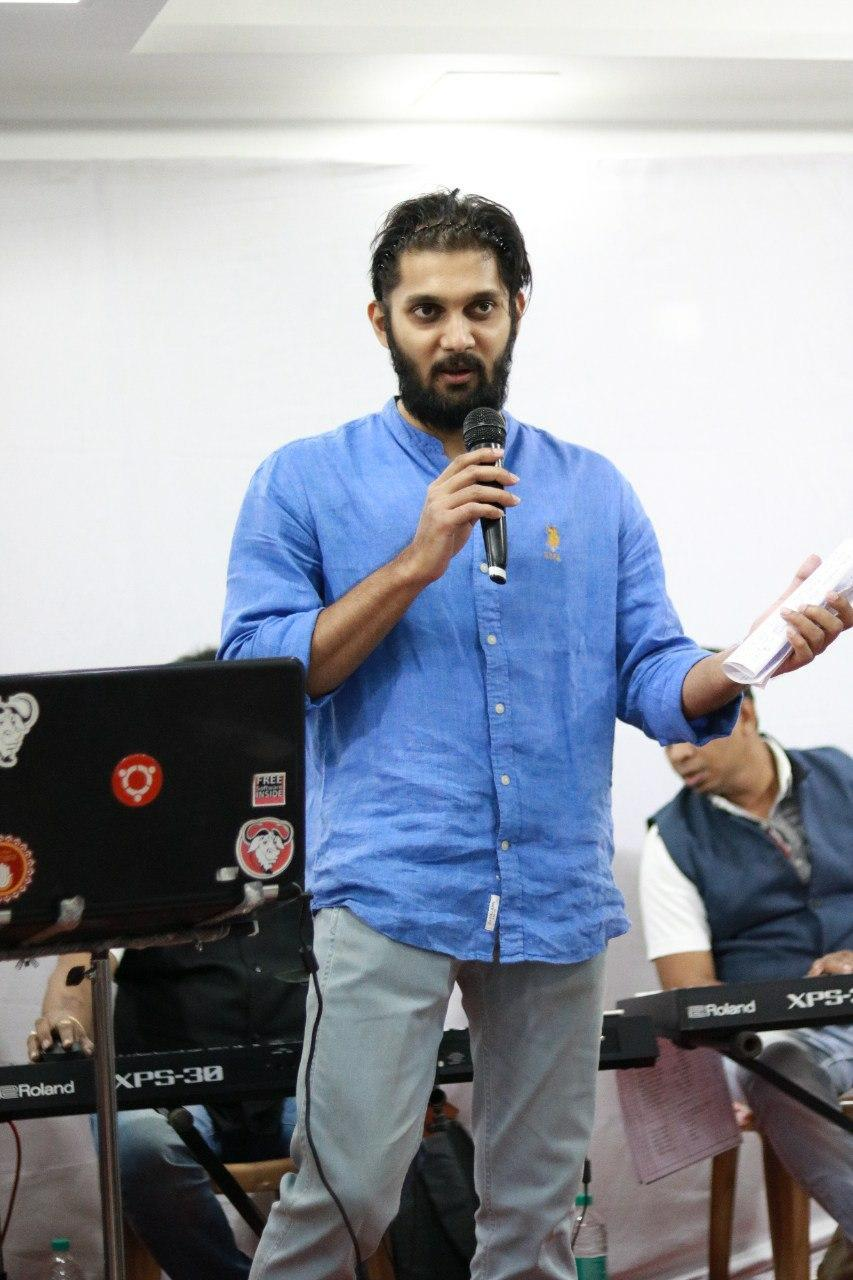
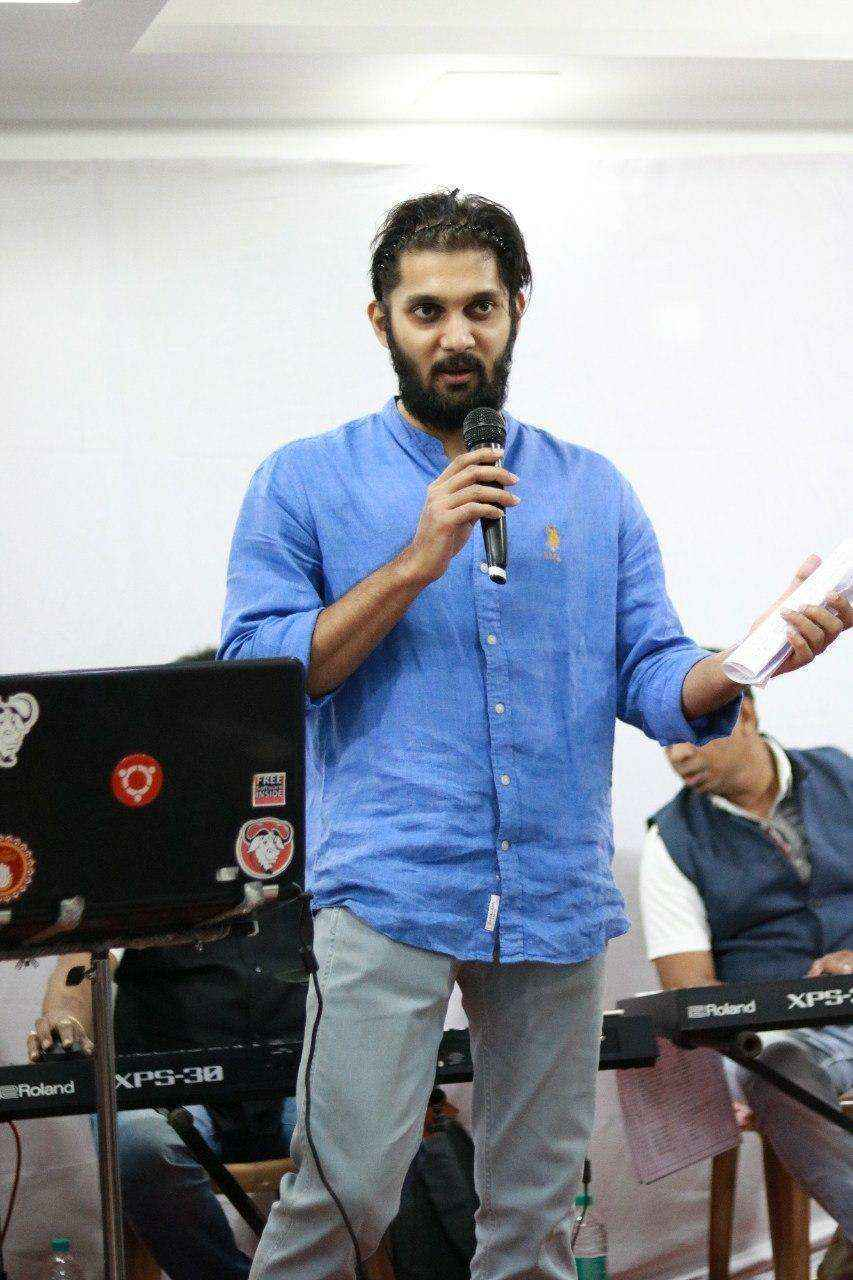
NAVIN IMAGE CHANGE TO JPG

diff --git a/src/pages/Index.vue b/src/pages/Index.vue
@@ -88,7 +88,7 @@
 
         <div class="flex justify-center flex-wrap">
             <div class="w-48 m-4 mx-auto py-2 bg-blue shadow-lg">
-                <img class="mx-auto rounded-full" src="../assets/navin.png" alt="Navin Karkera, Python Programmer" />
+                <img class="mx-auto rounded-full" src="../assets/navin.jpg" alt="Navin Karkera, Python Programmer" />
                 <u>
                     <p class="mx-2 mt-2 text-center text-lg text-ui-primary font-semibold">Navin Karkera</p>
                 </u>
